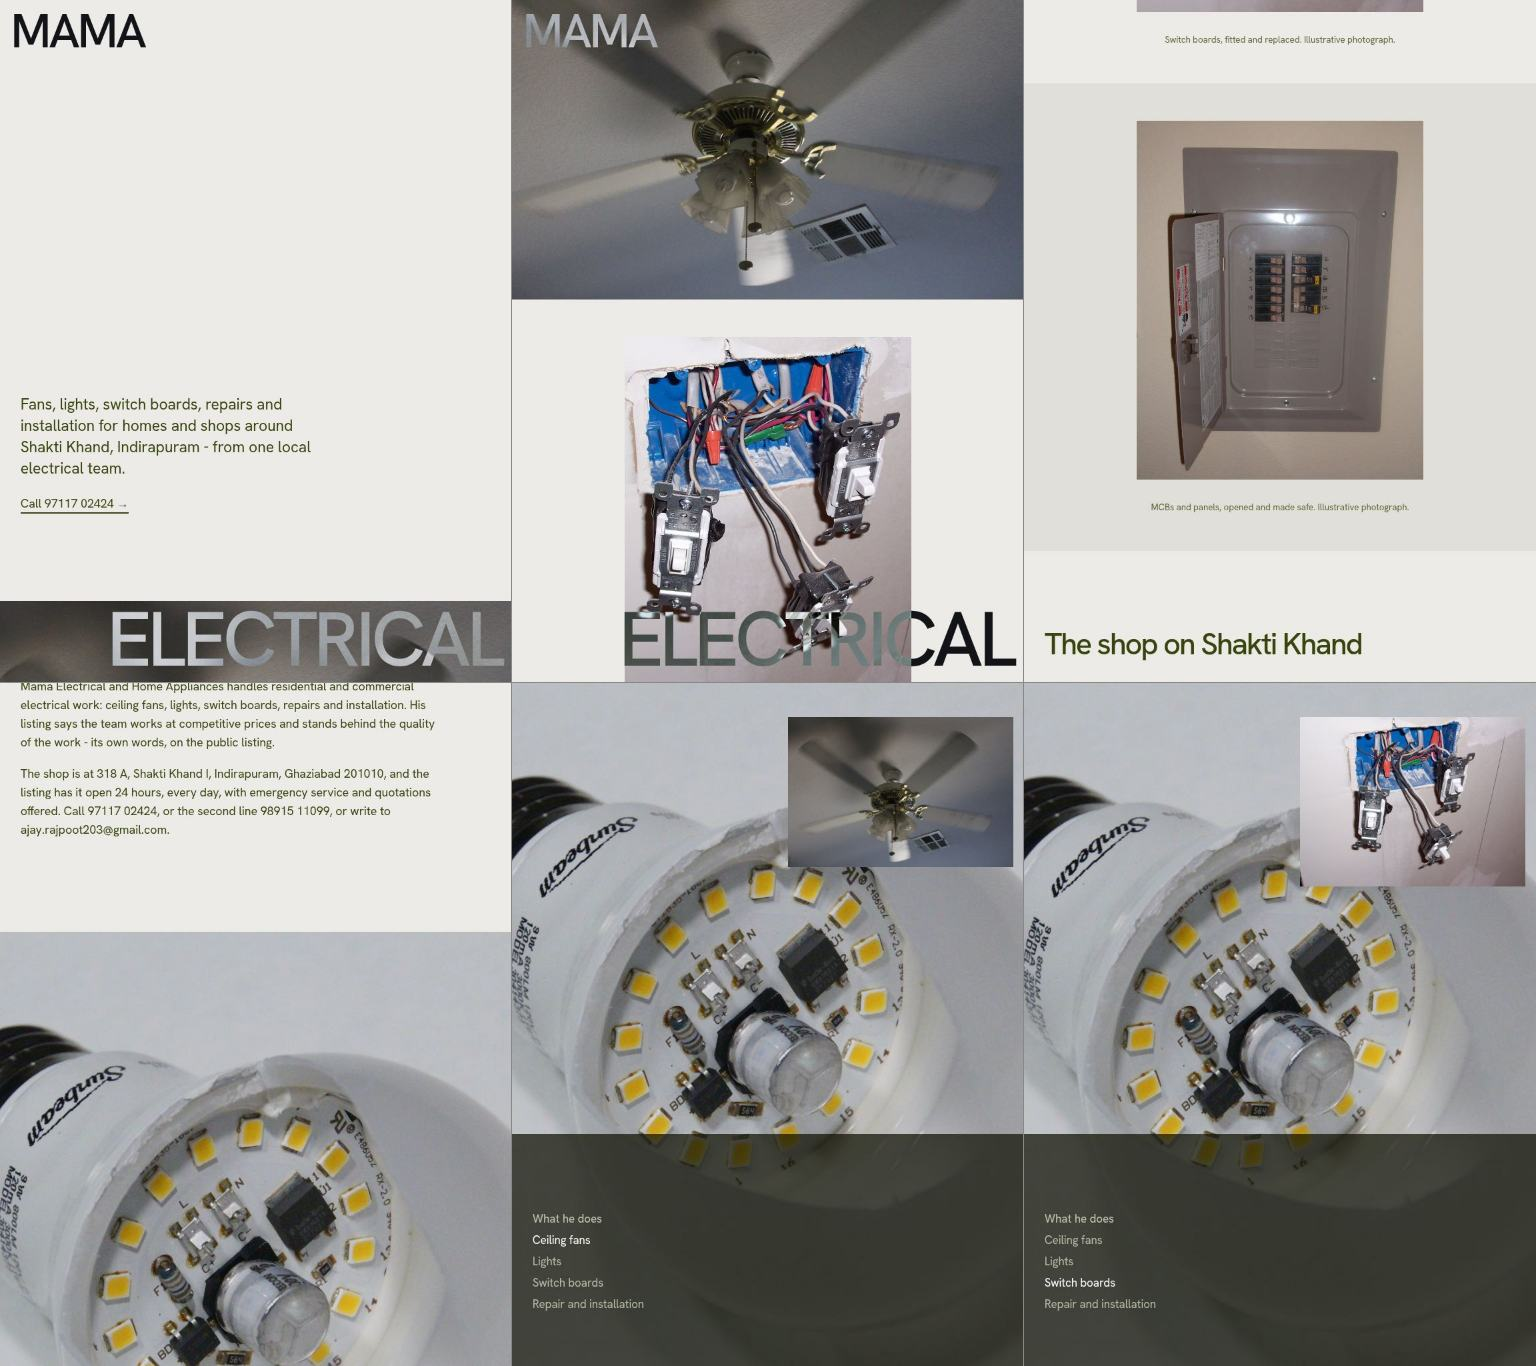
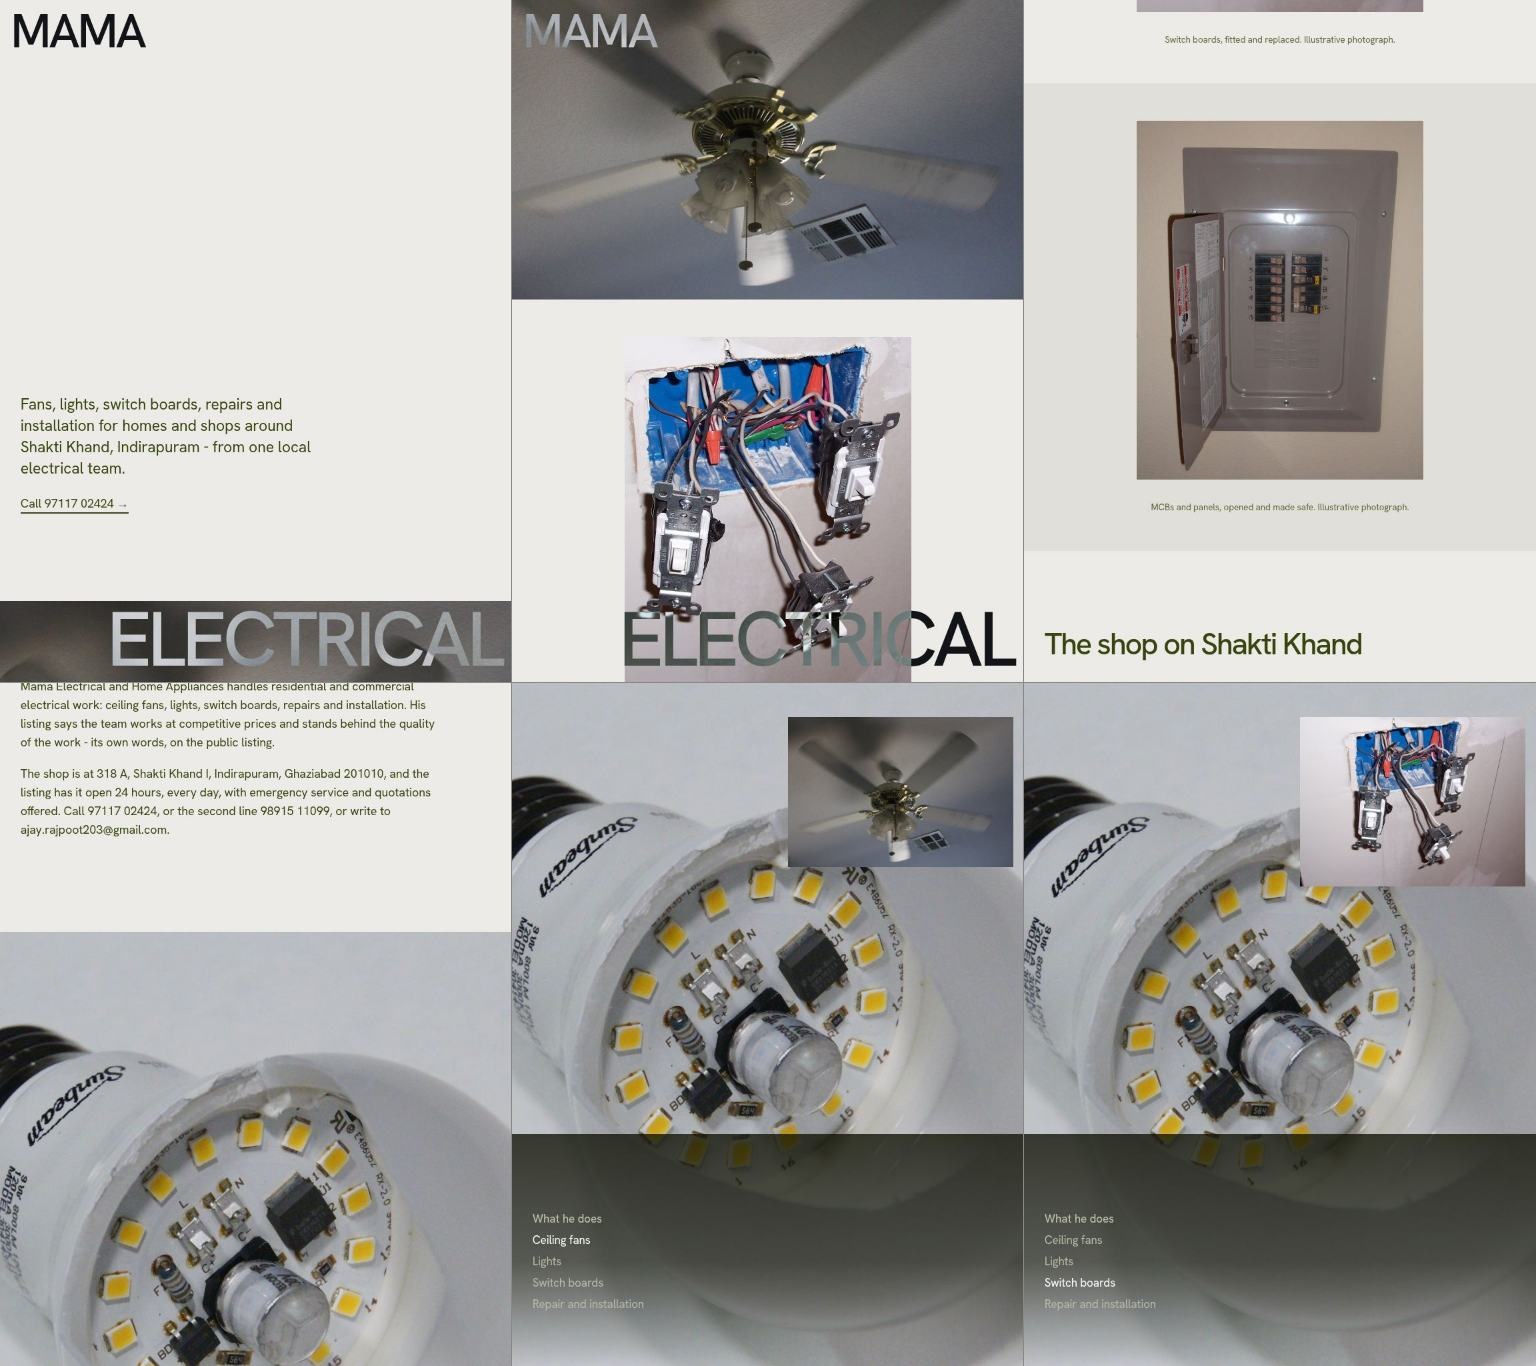
V35 Mama Electrical: gradient scrim fix (hard edge), eyeball pass 1440/768/390

Changed region(s): [[0.3125, 0.9224, 1.0, 1.0]]

diff --git a/mama-electrical-ghaziabad/index.html b/mama-electrical-ghaziabad/index.html
@@ -64,7 +64,7 @@ h1,h2,h3{font-weight:500;letter-spacing:-0.05em;line-height:0.9}
 .stepwrap{position:relative;height:400svh;background:#101204}
 .steps{position:sticky;top:0;height:100svh;overflow:hidden}
 .steps>img{position:absolute;inset:0;width:100%;height:100%;object-fit:cover;opacity:0.85}
-.steps .scrim{position:absolute;top:0;left:0;right:0;height:38%;background:rgba(16,18,4,0.72)}
+.steps .scrim{position:absolute;top:0;left:0;right:0;height:52%;background:linear-gradient(to bottom,rgba(16,18,4,0.78),rgba(16,18,4,0.6) 55%,rgba(16,18,4,0))} /* taste-skill-ignore: neutral scrim over a photo, the gradient rule's own named exception */
 .steps .stack{position:absolute;top:5%;left:0;right:0;display:flex;flex-direction:column;align-items:center;gap:10px;text-align:center}
 .steps .stack span{font-size:var(--step-lead);line-height:1.3;color:#b9bcab;transition:color .35s ease}
 .steps .stack span.first{font-weight:500}
